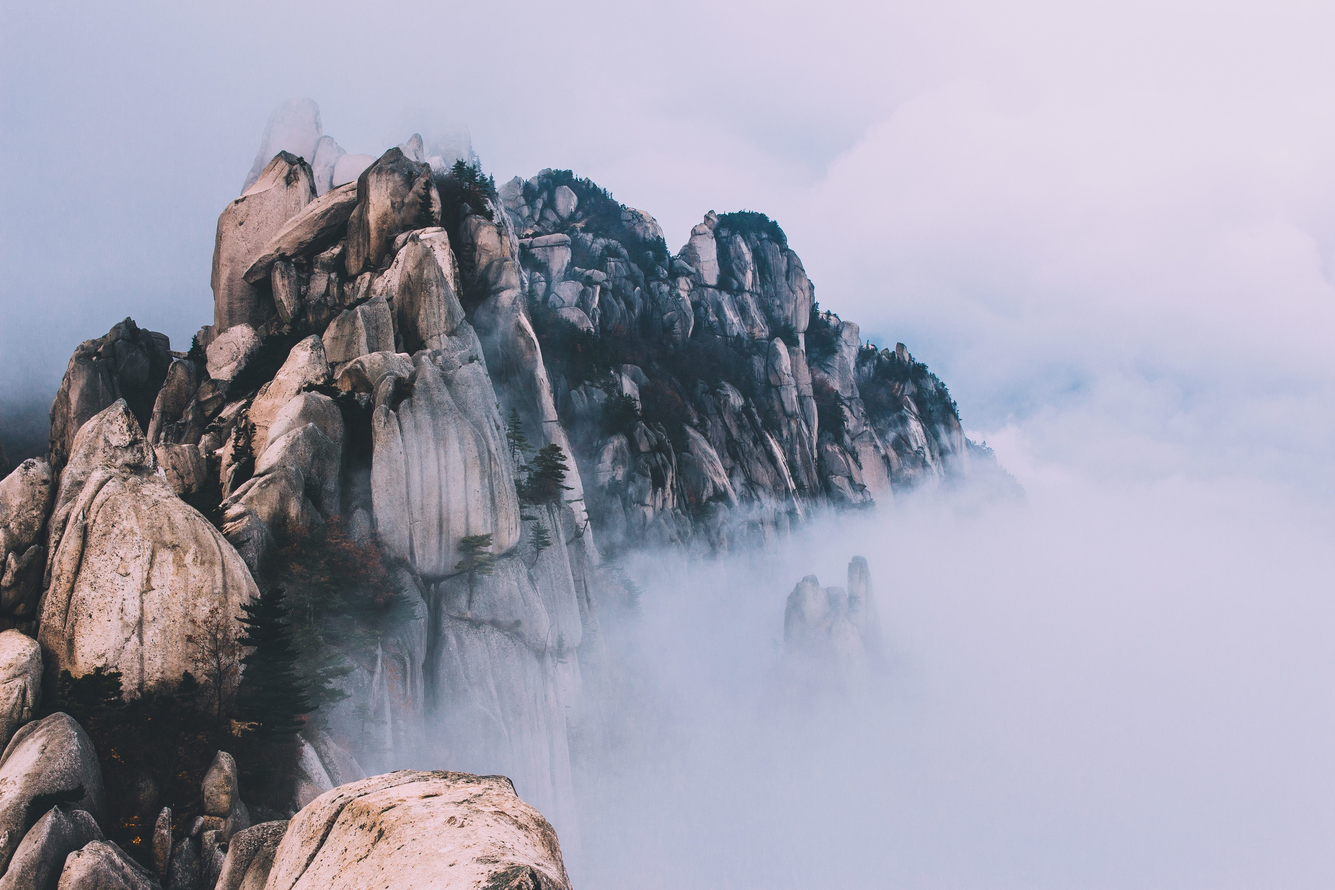
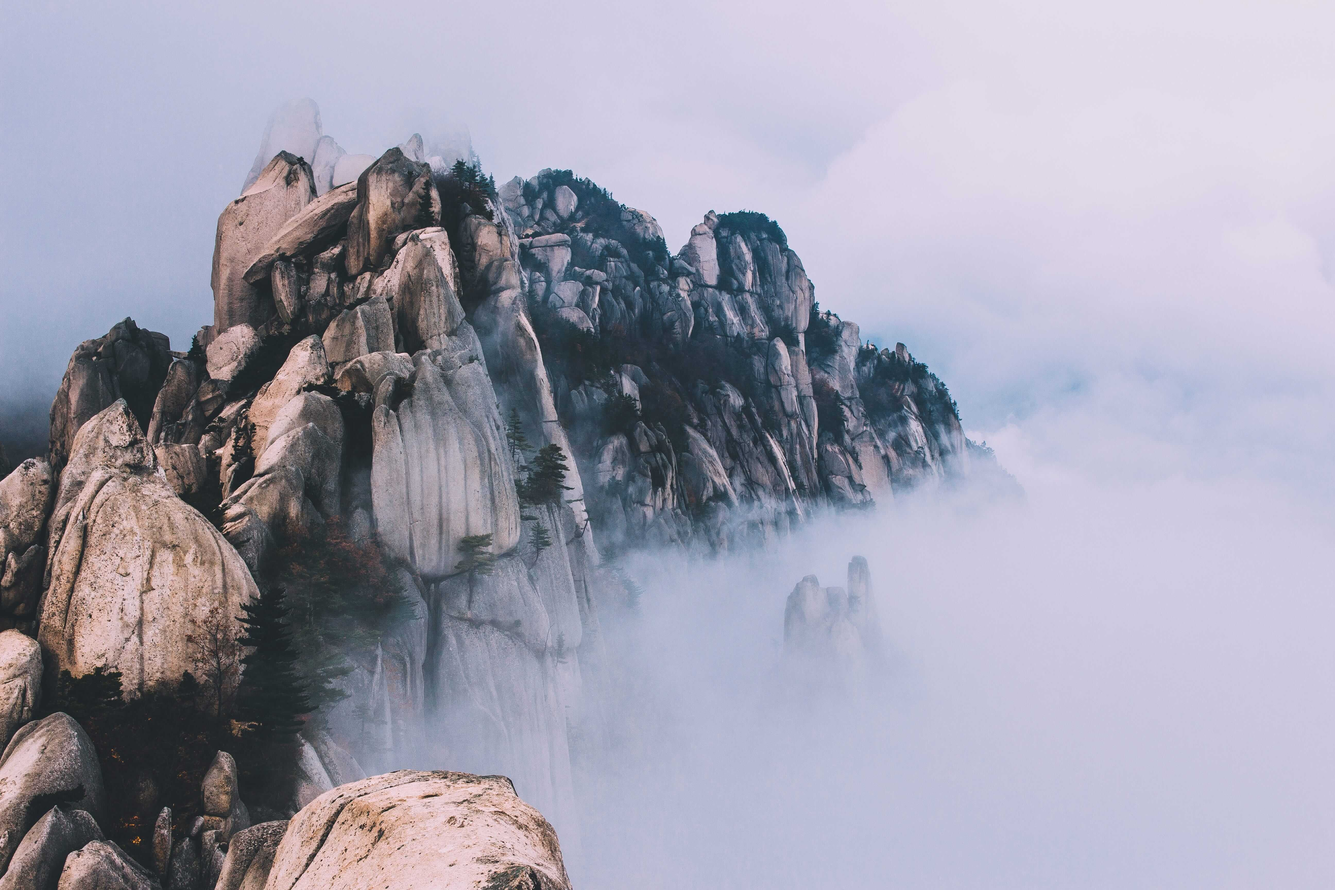
1) Созданы и заполнены контентом все 15 страниц подкаталога "Палатки". 2) Все изображения сжаты с помощью tinypng 3) Удалены лишние изображения

diff --git a/first_magazin/pages/tent-main.html b/first_magazin/pages/tent-main.html
@@ -63,157 +63,157 @@
 						</div>
 					</div>
 					<div class="main-goods__item">
-						<a href=""><img src="" alt=""></a>
+						<a href="./tent/3.html"><img src="../img/tent/3.jpg" alt=""></a>
 						<div class="main-goods__item__details">
-							<a href="">
-								<h3></h3></a>
+							<a href="./tent/3.html">
+								<h3>Палатка BUSTER 2-3</h3></a>
 							<p class="status">В наличии</p>
 							<div class="basket">
-								<p class="price"></p>
+								<p class="price">10420</p>
 								<form action=""><input type="submit" value="Купить!"></form>
 							</div>
 						</div>
 					</div>
 					<div class="main-goods__item">
-						<a href=""><img src="" alt=""></a>
+						<a href="./tent/4.html"><img src="../img/tent/4.jpg" alt=""></a>
 						<div class="main-goods__item__details">
-							<a href="">
-								<h3></h3></a>
+							<a href="./tent/4.html">
+								<h3>Палатка ЛОТОС 4</h3></a>
 							<p class="status">В наличии</p>
 							<div class="basket">
-								<p class="price"></p>
+								<p class="price">13970</p>
 								<form action=""><input type="submit" value="Купить!"></form>
 							</div>
 						</div>
 					</div>
 					<div class="main-goods__item">
-						<a href=""><img src="" alt=""></a>
+						<a href="./tent/5.html"><img src="../img/tent/5.jpg" alt=""></a>
 						<div class="main-goods__item__details">
-							<a href="">
-								<h3></h3></a>
+							<a href="./tent/5.html">
+								<h3>Палатка Forest Pro 2</h3></a>
 							<p class="status">В наличии</p>
 							<div class="basket">
-								<p class="price"></p>
+								<p class="price">13110</p>
 								<form action=""><input type="submit" value="Купить!"></form>
 							</div>
 						</div>
 					</div>
 					<div class="main-goods__item">
-						<a href=""><img src="" alt=""></a>
+						<a href="./tent/6.html"><img src="../img/tent/6.jpg" alt=""></a>
 						<div class="main-goods__item__details">
-							<a href="">
-								<h3></h3></a>
+							<a href="./tent/6.html">
+								<h3>Палатка Сайма 2i</h3></a>
 							<p class="status">В наличии</p>
 							<div class="basket">
-								<p class="price"></p>
+								<p class="price">12960</p>
 								<form action=""><input type="submit" value="Купить!"></form>
 							</div>
 						</div>
 					</div>
 					<div class="main-goods__item">
-						<a href=""><img src="" alt=""></a>
+						<a href="./tent/7.html"><img src="../img/tent/7.jpg" alt=""></a>
 						<div class="main-goods__item__details">
-							<a href="">
-								<h3></h3></a>
+							<a href="./tent/7.html">
+								<h3>Палатка Старт 4</h3></a>
 							<p class="status">В наличии</p>
 							<div class="basket">
-								<p class="price"></p>
+								<p class="price">12045</p>
 								<form action=""><input type="submit" value="Купить!"></form>
 							</div>
 						</div>
 					</div>
 					<div class="main-goods__item">
-						<a href=""><img src="" alt=""></a>
+						<a href="./tent/8.html"><img src="../img/tent/8.jpg" alt=""></a>
 						<div class="main-goods__item__details">
-							<a href="">
-								<h3></h3></a>
+							<a href="./tent/8.html">
+								<h3>Палатка Boyard pro 2 Alum</h3></a>
 							<p class="status">В наличии</p>
 							<div class="basket">
-								<p class="price"></p>
+								<p class="price">10960</p>
 								<form action=""><input type="submit" value="Купить!"></form>
 							</div>
 						</div>
 					</div>
 					<div class="main-goods__item">
-						<a href=""><img src="" alt=""></a>
+						<a href="./tent/9.html"><img src="../img/tent/9.jpg" alt=""></a>
 						<div class="main-goods__item__details">
-							<a href="">
-								<h3></h3></a>
+							<a href="./tent/9.html">
+								<h3>Палатка ВИКТОРИЯ 3</h3></a>
 							<p class="status">В наличии</p>
 							<div class="basket">
-								<p class="price"></p>
+								<p class="price">10285</p>
 								<form action=""><input type="submit" value="Купить!"></form>
 							</div>
 						</div>
 					</div>
 					<div class="main-goods__item">
-						<a href=""><img src="" alt=""></a>
+						<a href="./tent/10.html"><img src="../img/tent/10.jpg" alt=""></a>
 						<div class="main-goods__item__details">
-							<a href="">
-								<h3></h3></a>
+							<a href="./tent/10.html">
+								<h3>Палатка с автом. каркас. ДЕРРИ 3 /212</h3></a>
 							<p class="status">В наличии</p>
 							<div class="basket">
-								<p class="price"></p>
+								<p class="price">9490</p>
 								<form action=""><input type="submit" value="Купить!"></form>
 							</div>
 						</div>
 					</div>
 					<div class="main-goods__item">
-						<a href=""><img src="" alt=""></a>
+						<a href="./tent/11.html"><img src="../img/tent/11.jpg" alt=""></a>
 						<div class="main-goods__item__details">
-							<a href="">
-								<h3></h3></a>
+							<a href="./tent/11.html">
+								<h3>Палатка BRET 2</h3></a>
 							<p class="status">В наличии</p>
 							<div class="basket">
-								<p class="price"></p>
+								<p class="price">13450</p>
 								<form action=""><input type="submit" value="Купить!"></form>
 							</div>
 						</div>
 					</div>
 					<div class="main-goods__item">
-						<a href=""><img src="" alt=""></a>
+						<a href="./tent/12.html"><img src="../img/tent/12.jpg" alt=""></a>
 						<div class="main-goods__item__details">
-							<a href="">
-								<h3></h3></a>
+							<a href="./tent/12.html">
+								<h3>Палатка-шатер Зима У</h3></a>
 							<p class="status">В наличии</p>
 							<div class="basket">
-								<p class="price"></p>
+								<p class="price">32400</p>
 								<form action=""><input type="submit" value="Купить!"></form>
 							</div>
 						</div>
 					</div>
 					<div class="main-goods__item">
-						<a href=""><img src="" alt=""></a>
+						<a href="./tent/13.html"><img src="../img/tent/13.jpg" alt=""></a>
 						<div class="main-goods__item__details">
-							<a href="">
-								<h3></h3></a>
+							<a href="./tent/13.html">
+								<h3>Палатка Boyard 2</h3></a>
 							<p class="status">В наличии</p>
 							<div class="basket">
-								<p class="price"></p>
+								<p class="price">7830</p>
 								<form action=""><input type="submit" value="Купить!"></form>
 							</div>
 						</div>
 					</div>
 					<div class="main-goods__item">
-						<a href=""><img src="" alt=""></a>
+						<a href="./tent/14.html"><img src="../img/tent/14.jpg" alt=""></a>
 						<div class="main-goods__item__details">
-							<a href="">
-								<h3></h3></a>
+							<a href="./tent/14.html">
+								<h3>Палатка ВЕГА 3 pro +(i)</h3></a>
 							<p class="status">В наличии</p>
 							<div class="basket">
-								<p class="price"></p>
+								<p class="price">7900</p>
 								<form action=""><input type="submit" value="Купить!"></form>
 							</div>
 						</div>
 					</div>
 					<div class="main-goods__item">
-						<a href=""><img src="" alt=""></a>
+						<a href="./tent/15.html"><img src="../img/tent/15.jpg" alt=""></a>
 						<div class="main-goods__item__details">
-							<a href="">
-								<h3></h3></a>
+							<a href="./tent/15.html">
+								<h3>Палатка ОКУНЬ - автомат 3</h3></a>
 							<p class="status">В наличии</p>
 							<div class="basket">
-								<p class="price"></p>
+								<p class="price">7370</p>
 								<form action=""><input type="submit" value="Купить!"></form>
 							</div>
 						</div>

diff --git a/first_magazin/style.css b/first_magazin/style.css
@@ -151,3 +151,8 @@ body{
 	display: block;
 	clear: both;
 }
+.header:after{
+	content: '';
+	display: block;
+	clear: both;
+}
